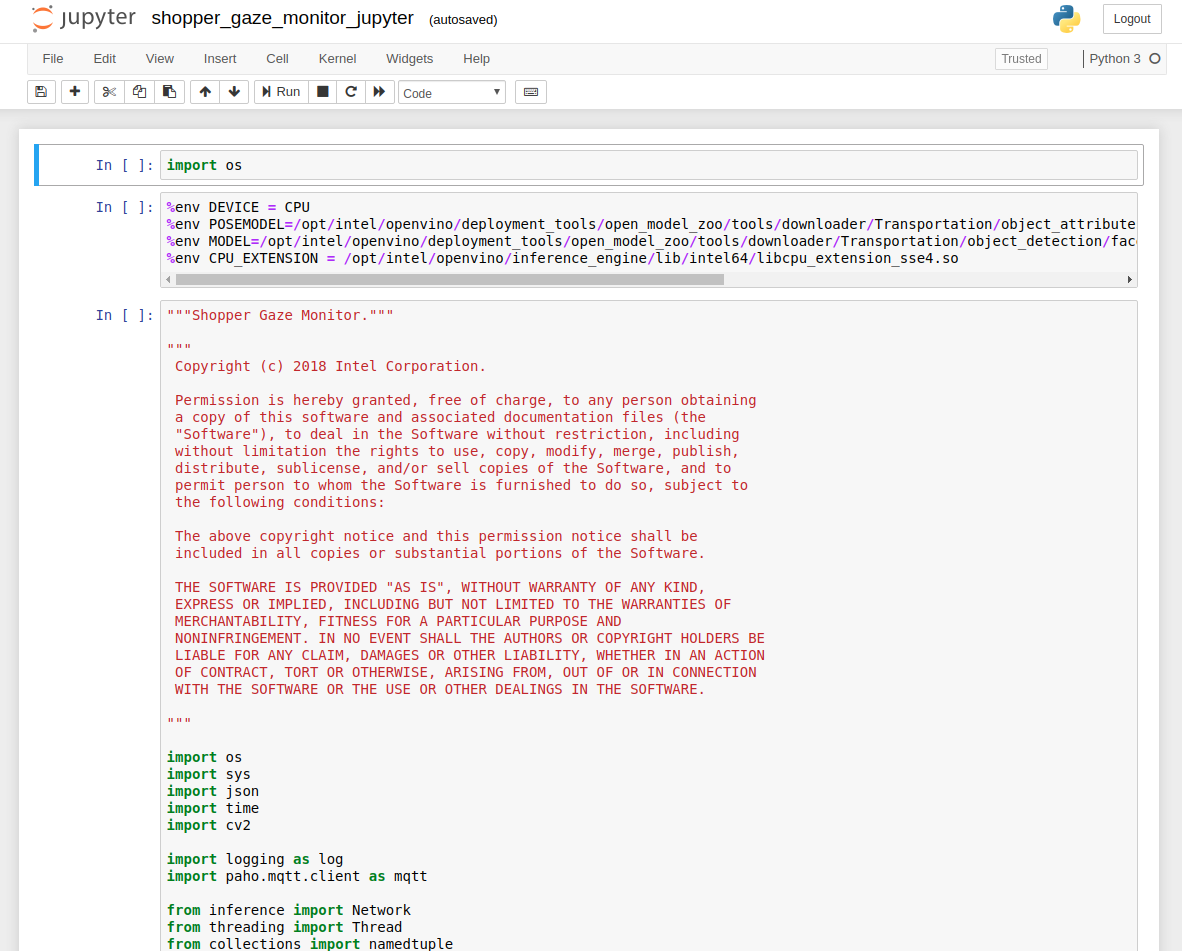
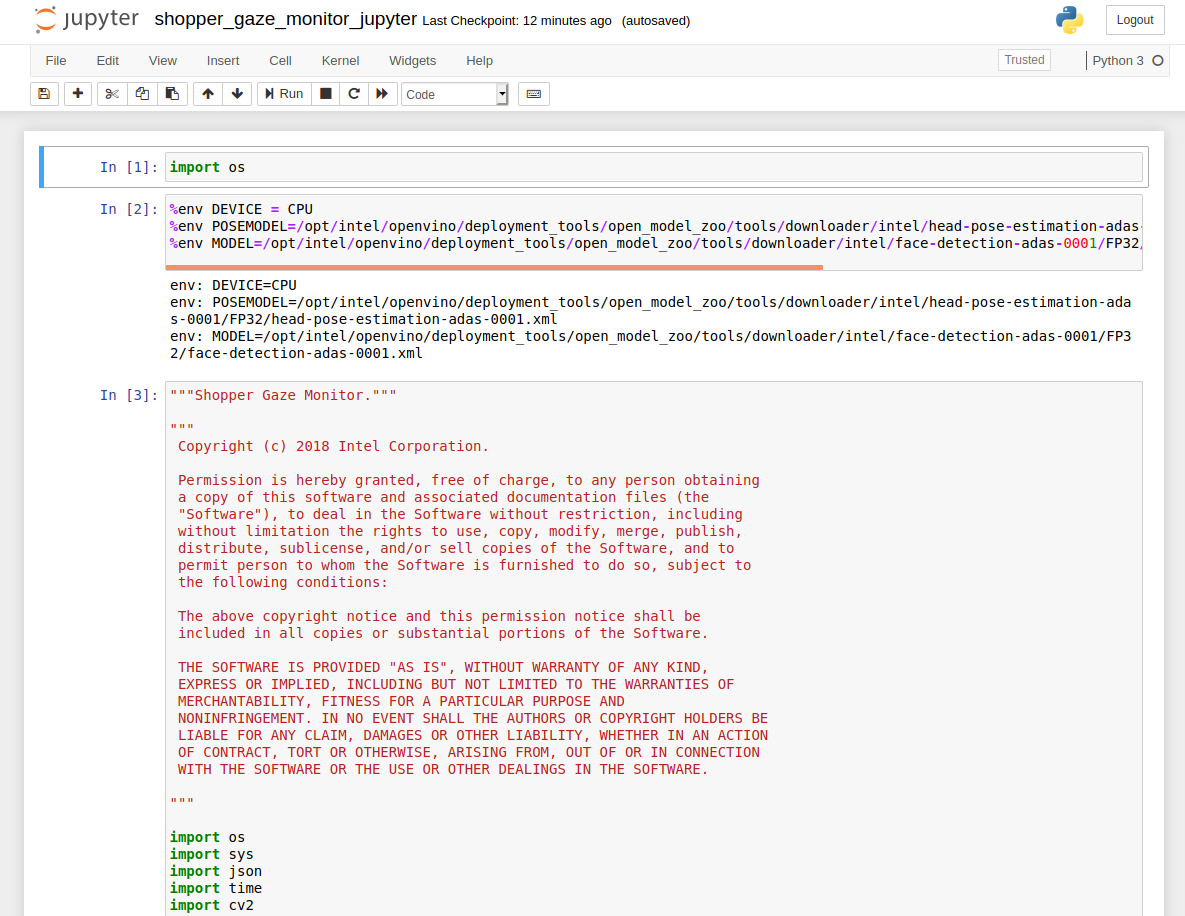
Porting to OpenVINO 2020.3

Changed region(s): [[0.0, 0.0, 1.0, 1.0], [0.0305, 0.0, 0.5787, 0.0306], [0.8832, 0.0, 0.9137, 0.0306]]

diff --git a/Jupyter/inference.py b/Jupyter/inference.py
@@ -70,7 +70,7 @@ class Network:
 
         # Read IR
         log.info("Reading IR...")
-        self.net = IENetwork(model=model_xml, weights=model_bin)
+        self.net = self.plugin.read_network(model=model_xml, weights=model_bin)
         log.info("Loading IR to the plugin...")
 
         if "CPU" in device:

diff --git a/application/inference.py b/application/inference.py
@@ -70,7 +70,7 @@ class Network:
 
         # Read IR
         log.info("Reading IR...")
-        self.net = IENetwork(model=model_xml, weights=model_bin)
+        self.net = self.plugin.read_network(model=model_xml, weights=model_bin)
         log.info("Loading IR to the plugin...")
 
         if "CPU" in device:

diff --git a/Jupyter/README.md b/Jupyter/README.md
@@ -2,7 +2,7 @@
 
 | Details               |              |
 |-----------------------|---------------|
-| Target OS:            |  Ubuntu\* 16.04 LTS   |
+| Target OS:            |  Ubuntu\* 18.04 LTS   |
 | Programming Language: |  Python* 3.5 |
 | Time to Complete:     |  30 min     |
 
@@ -30,7 +30,7 @@ This shopper gaze monitor application is designed for a retail shelf mounted cam
 
       uname -a
   
-* Intel® Distribution of OpenVINO™ toolkit 2019 R3 Release
+* Intel® Distribution of OpenVINO™ toolkit 2020 R3 Release
 * Jupyter* Notebook v5.7.0
 
 ## How It works
@@ -71,7 +71,7 @@ Mosquitto is an open source message broker that implements the MQTT protocol. Th
 
 ### Which model to use
 
-This application uses the [face-detection-adas-0001](https://docs.openvinotoolkit.org/2019_R3/_models_intel_face_detection_adas_0001_description_face_detection_adas_0001.html) and [head-pose-estimation-adas-0001](https://docs.openvinotoolkit.org/2019_R3/_models_intel_human_pose_estimation_0001_description_human_pose_estimation_0001.html) Intel® model, that can be downloaded using the **model downloader**. The **model downloader** downloads the __.xml__ and __.bin__ files that is used by the application. 
+This application uses the [face-detection-adas-0001](https://docs.openvinotoolkit.org/2020.3/_models_intel_face_detection_adas_0001_description_face_detection_adas_0001.html) and [head-pose-estimation-adas-0001](https://docs.openvinotoolkit.org/2020.3/_models_intel_human_pose_estimation_0001_description_human_pose_estimation_0001.html) Intel® model, that can be downloaded using the **model downloader**. The **model downloader** downloads the __.xml__ and __.bin__ files that is used by the application. 
 
 To install the dependencies of the RI and to download the models Intel® model, run the following command:
 
@@ -147,7 +147,7 @@ ls /dev/video*
 ## Setup the environment
 You must configure the environment to use the Intel® Distribution of OpenVINO™ toolkit one time per session by running the following command:
 
-    source /opt/intel/openvino/bin/setupvars.sh -pyver 3.5
+    source /opt/intel/openvino/bin/setupvars.sh
     
 __Note__: This command needs to be executed only once in the terminal where the application will be executed. If the terminal is closed, the command needs to be executed again.
 
@@ -160,7 +160,7 @@ __Note__: This command needs to be executed only once in the terminal where the 
   jupyter notebook
   ```
 
-  **NOTE**:
+<!--  **NOTE**:
     Before running the application on the FPGA, set the environment variables and  program the AOCX (bitstream) file.<br>
 
     Set the Board Environment Variable to the proper directory:
@@ -189,7 +189,7 @@ __Note__: This command needs to be executed only once in the terminal where the 
     aocl program acl0 /opt/intel/openvino/bitstreams/a10_vision_design_sg<#>_bitstreams/2019R3_PV_PL1_FP16_MobileNet_Clamp.aocx
     ```
 
-    For more information on programming the bitstreams, please refer to [OpenVINO-Install-Linux-FPGA](https://software.intel.com/en-us/articles/OpenVINO-Install-Linux-FPGA#inpage-nav-11)
+    For more information on programming the bitstreams, please refer to [OpenVINO-Install-Linux-FPGA](https://software.intel.com/en-us/articles/OpenVINO-Install-Linux-FPGA#inpage-nav-11) -->
 
 1. Go to the _shopper-gaze-monitor-python_ directory and open the Jupyter notebook by running the following command:
 
@@ -208,7 +208,6 @@ __Note__: This command needs to be executed only once in the terminal where the 
 5. Export the below environment variables in second cell of Jupyter and press **Shift+Enter**.
         
        %env DEVICE = CPU 
-       %env CPU_EXTENSION = /opt/intel/openvino/inference_engine/lib/intel64/libcpu_extension_sse4.so
        %env MODEL=/opt/intel/openvino/deployment_tools/open_model_zoo/tools/downloader/intel/face-detection-adas-0001/FP32/face-detection-adas-0001.xml
        %env POSEMODEL=/opt/intel/openvino/deployment_tools/open_model_zoo/tools/downloader/intel/head-pose-estimation-adas-0001/FP32/head-pose-estimation-adas-0001.xml
 
@@ -243,7 +242,8 @@ __Note__: This command needs to be executed only once in the terminal where the 
            %env POSEMODEL=/opt/intel/openvino/deployment_tools/open_model_zoo/tools/downloader/intel/head-pose-estimation-adas-0001/FP16/head-pose-estimation-adas-0001.xml	
              
         **FP16**: FP16 is half-precision floating-point arithmetic uses 16 bits. 5 bits for the magnitude and 10 bits for the precision. For more information, [click here](https://en.wikipedia.org/wiki/Half-precision_floating-point_format)
-     * **CPU_EXTENSION** environment variable is not required.<br>   
+     * **CPU_EXTENSION** environment variable is not required.<br>
+   
 2. To run the application on **Intel® Neural Compute Stick**: 
      * Change the **%env DEVICE = CPU** to **%env DEVICE = MYRIAD**  
      * The Intel® Neural Compute Stick can only run FP16 models. Hence change the environment variable for the model as shown below. <br>
@@ -251,6 +251,7 @@ __Note__: This command needs to be executed only once in the terminal where the 
            %env MODEL=/opt/intel/openvino/deployment_tools/open_model_zoo/tools/downloader/intel/face-detection-adas-0001/FP16/face-detection-adas-0001.xml
            %env POSEMODEL=/opt/intel/openvino/deployment_tools/open_model_zoo/tools/downloader/intel/head-pose-estimation-adas-0001/FP16/head-pose-estimation-adas-0001.xml
       * **CPU_EXTENSION** environment variable is not required.<br>
+
 3. To run the application on **Intel® Movidius™ VPU**:
      * Change the **%env DEVICE = CPU** to **%env DEVICE = HDDL**
      * The Intel® Movidius™ VPU can only run FP16 models. Change the environment variable for the model as shown below  and the models that are passed to the application must be of data type FP16. <br>
@@ -261,16 +262,13 @@ __Note__: This command needs to be executed only once in the terminal where the 
      * **CPU_EXTENSION** environment variable is not required.<br>
 
 	    
-4. To run the application on **Intel® Arria® 10 FPGA**:
+<!--4. To run the application on **Intel® Arria® 10 FPGA**:
      * Change the **%env DEVICE = CPU** to **%env DEVICE = HETERO:FPGA,CPU**
      * With the **floating point precision 16 (FP16)**, change the path of the model in the environment variable **MODEL** as given below: <br>
        
            %env MODEL=/opt/intel/openvino/deployment_tools/open_model_zoo/tools/downloader/intel/face-detection-adas-0001/FP16/face-detection-adas-0001.xml
-           %env POSEMODEL=/opt/intel/openvino/deployment_tools/open_model_zoo/tools/downloader/intel/head-pose-estimation-adas-0001/FP16/head-pose-estimation-adas-0001.xml
-      * Export the **CPU_EXTENSION** environment variable as shown below:
-         
-            %env CPU_EXTENSION = /opt/intel/openvino/inference_engine/lib/intel64/libcpu_extension_sse4.so
-
+           %env POSEMODEL=/opt/intel/openvino/deployment_tools/open_model_zoo/tools/downloader/intel/head-pose-estimation-adas-0001/FP16/head-pose-estimation-adas-0001.xml -->
+     
 
 5. To run the application on multiple devices: <br>
    For example:
@@ -279,10 +277,7 @@ __Note__: This command needs to be executed only once in the terminal where the 
  
            %env MODEL=/opt/intel/openvino/deployment_tools/open_model_zoo/tools/downloader/intel/face-detection-adas-0001/FP16/face-detection-adas-0001.xml
            %env POSEMODEL=/opt/intel/openvino/deployment_tools/open_model_zoo/tools/downloader/intel/head-pose-estimation-adas-0001/FP16/head-pose-estimation-adas-0001.xml
-     * Export the **CPU_EXTENSION** environment variable as shown below:
-         
-           %env CPU_EXTENSION = /opt/intel/openvino/inference_engine/lib/intel64/libcpu_extension_sse4.so
-
+     
 
 
 ## Machine to machine messaging with MQTT

diff --git a/README.md b/README.md
@@ -2,7 +2,7 @@
 
 | Details               |              |
 |-----------------------|---------------|
-| Target OS:            |  Ubuntu\* 16.04 LTS   |
+| Target OS:            |  Ubuntu\* 18.04 LTS   |
 | Programming Language: |  Python* 3.5 |
 | Time to Complete:     |  30 min     |
 
@@ -22,7 +22,7 @@ This shopper gaze monitor application is designed for a retail shelf mounted cam
 
 ### Software
 
-* Ubuntu 16.04
+* Ubuntu 18.04
 
 * OpenCL™ Runtime Package
 
@@ -30,7 +30,7 @@ This shopper gaze monitor application is designed for a retail shelf mounted cam
 
       uname -a
   
-* Intel® Distribution of OpenVINO™ toolkit 2019 R3 Release
+* Intel® Distribution of OpenVINO™ toolkit 2020 R3 Release
 
 ## How It works
 
@@ -55,7 +55,7 @@ The program creates two threads for concurrency:
 Clone the reference implementation:
 ```
 sudo apt-get update && sudo apt-get install git
-git clone https://github.com/intel-iot-devkit/shopper-gaze-monitor-python.git
+git clone https://github.com/intel-iot-devkit/shopper-gaze-monitor-python.git 
 ``` 
 
 ### Install Intel® Distribution of OpenVINO™ toolkit
@@ -70,7 +70,7 @@ Mosquitto is an open source message broker that implements the MQTT protocol. Th
 
 ### Which model to use
 
-This application uses the [face-detection-adas-0001](https://docs.openvinotoolkit.org/2019_R3/_models_intel_face_detection_adas_0001_description_face_detection_adas_0001.html) and [head-pose-estimation-adas-0001](https://docs.openvinotoolkit.org/2019_R3/_models_intel_human_pose_estimation_0001_description_human_pose_estimation_0001.html) Intel® model, that can be downloaded using the **model downloader**. The **model downloader** downloads the __.xml__ and __.bin__ files that is used by the application. 
+This application uses the [face-detection-adas-0001](https://docs.openvinotoolkit.org/2020.3/_models_intel_face_detection_adas_0001_description_face_detection_adas_0001.html) and [head-pose-estimation-adas-0001](https://docs.openvinotoolkit.org/2020.3/_models_intel_human_pose_estimation_0001_description_human_pose_estimation_0001.html) Intel® model, that can be downloaded using the **model downloader**. The **model downloader** downloads the __.xml__ and __.bin__ files that is used by the application. 
 
 To install the dependencies of the RI and to download the models Intel® model, run the following command:
 
@@ -146,7 +146,7 @@ ls /dev/video*
 ## Setup the environment
 You must configure the environment to use the Intel® Distribution of OpenVINO™ toolkit one time per session by running the following command:
 
-    source /opt/intel/openvino/bin/setupvars.sh -pyver 3.5
+    source /opt/intel/openvino/bin/setupvars.sh
     
 __Note__: This command needs to be executed only once in the terminal where the application will be executed. If the terminal is closed, the command needs to be executed again.
 
@@ -162,15 +162,12 @@ To see a list of the various options:
 
 A user can specify a target device to run on by using the device command-line argument `-d` followed by one of the values `CPU`, `GPU`,`MYRIAD`, `HDDL` or `HETERO:FPGA,CPU`.<br>
 To run with multiple devices use -d MULTI:device1,device2. For example: `-d MULTI:CPU,GPU,MYRIAD`
+
 ### Running on the CPU
-
-When running Intel® Distribution of OpenVINO™ toolkit Python applications on the CPU, the CPU extension library is required. This can be found at 
-
-    /opt/intel/openvino/deployment_tools/inference_engine/lib/intel64/
 
 Though by default the application runs on CPU, this can also be explicitly specified by ```-d CPU``` command-line argument:
 
-	python3 shopper_gaze_monitor.py -m /opt/intel/openvino/deployment_tools/open_model_zoo/tools/downloader/intel/face-detection-adas-0001/FP32/face-detection-adas-0001.xml -pm /opt/intel/openvino/deployment_tools/open_model_zoo/tools/downloader/intel/head-pose-estimation-adas-0001/FP32/head-pose-estimation-adas-0001.xml -l /opt/intel/openvino/inference_engine/lib/intel64/libcpu_extension_sse4.so -d CPU
+	python3 shopper_gaze_monitor.py -m /opt/intel/openvino/deployment_tools/open_model_zoo/tools/downloader/intel/face-detection-adas-0001/FP32/face-detection-adas-0001.xml -pm /opt/intel/openvino/deployment_tools/open_model_zoo/tools/downloader/intel/head-pose-estimation-adas-0001/FP32/head-pose-estimation-adas-0001.xml -d CPU
 
 ### Running on the GPU
 
@@ -199,43 +196,6 @@ To run on the Intel® Movidius™ VPU, use the ```-d HDDL``` command-line argume
     python3 shopper_gaze_monitor.py -m /opt/intel/openvino/deployment_tools/open_model_zoo/tools/downloader/intel/face-detection-adas-0001/FP16/face-detection-adas-0001.xml -pm /opt/intel/openvino/deployment_tools/open_model_zoo/tools/downloader/intel/head-pose-estimation-adas-0001/FP16/head-pose-estimation-adas-0001.xml -d HDDL
 
 **Note:** The Intel® Movidius™ VPU can only run FP16 models. The model that is passed to the application, through the `-m <path_to_model>` command-line argument, must be of data type FP16.
-
-### Run on the Intel® Arria® 10 FPGA
-
-Before running the application on the FPGA, set the environment variables and  program the AOCX (bitstream) file.<br>
-
-Set the Board Environment Variable to the proper directory:
-
-```
-export AOCL_BOARD_PACKAGE_ROOT=/opt/intel/openvino/bitstreams/a10_vision_design_sg<#>_bitstreams/BSP/a10_1150_sg<#>
-```
-**NOTE**: If you do not know which version of the board you have, please refer to the product label on the fan cover side or by the product SKU: Mustang-F100-A10-R10 => SG1; Mustang-F100-A10E-R10 => SG2 <br>
-
-Set the Board Environment Variable to the proper directory: 
-```
-export QUARTUS_ROOTDIR=/home/<user>/intelFPGA/18.1/qprogrammer
-```
-Set the remaining environment variables:
-```
-export PATH=$PATH:/opt/altera/aocl-pro-rte/aclrte-linux64/bin:/opt/altera/aocl-pro-rte/aclrte-linux64/host/linux64/bin:/home/<user>/intelFPGA/18.1/qprogrammer/bin
-export INTELFPGAOCLSDKROOT=/opt/altera/aocl-pro-rte/aclrte-linux64
-export LD_LIBRARY_PATH=$LD_LIBRARY_PATH:$AOCL_BOARD_PACKAGE_ROOT/linux64/lib
-export CL_CONTEXT_COMPILER_MODE_INTELFPGA=3
-source /opt/altera/aocl-pro-rte/aclrte-linux64/init_opencl.sh
-```
-**NOTE**: It is recommended to create your own script for your system to aid in setting up these environment variables. It will be run each time you need a new terminal or restart your system. 
-
-The bitstreams for HDDL-F can be found under the `/opt/intel/openvino/bitstreams/a10_vision_design_sg<#>_bitstreams/` directory.<br><br>To program the bitstream use the below command:<br>
-```
-aocl program acl0 /opt/intel/openvino/bitstreams/a10_vision_design_sg<#>_bitstreams/2019R3_PV_PL1_FP16_MobileNet_Clamp.aocx
-```
-
-For more information on programming the bitstreams, please refer to [OpenVINO-Install-Linux-FPGA](https://software.intel.com/en-us/articles/OpenVINO-Install-Linux-FPGA#inpage-nav-11)
-
-To run the application on the FPGA with floating point precision 16 (FP16), use the `-d HETERO:FPGA,CPU` command-line argument:
-```
-    python3 shopper_gaze_monitor.py -m /opt/intel/openvino/deployment_tools/open_model_zoo/tools/downloader/intel/face-detection-adas-0001/FP16/face-detection-adas-0001.xml -pm /opt/intel/openvino/deployment_tools/open_model_zoo/tools/downloader/intel/head-pose-estimation-adas-0001/FP16/head-pose-estimation-adas-0001.xml -l /opt/intel/openvino/inference_engine/lib/intel64/libcpu_extension_sse4.so -d HETERO:FPGA,CPU 
-```
 
 # Machine to machine messaging with MQTT
 
